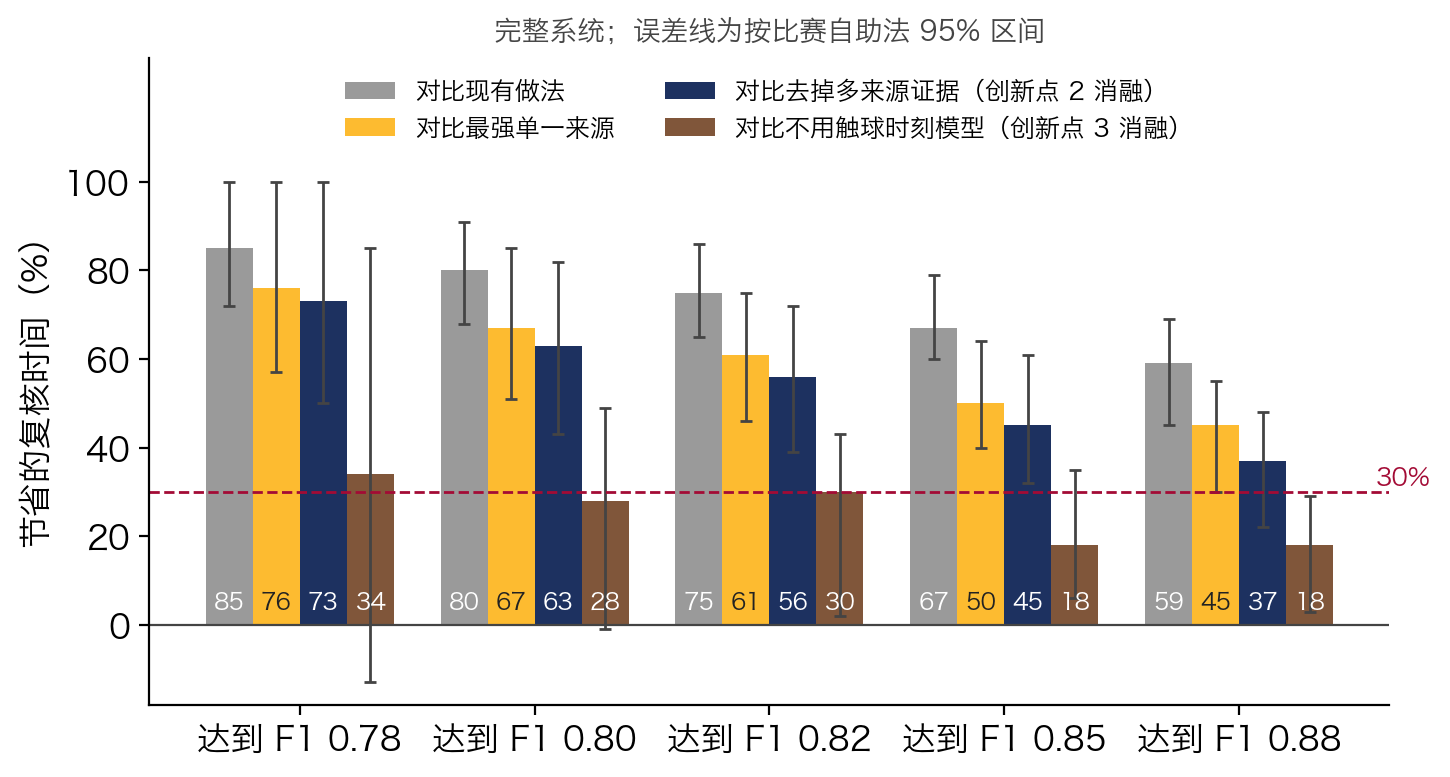
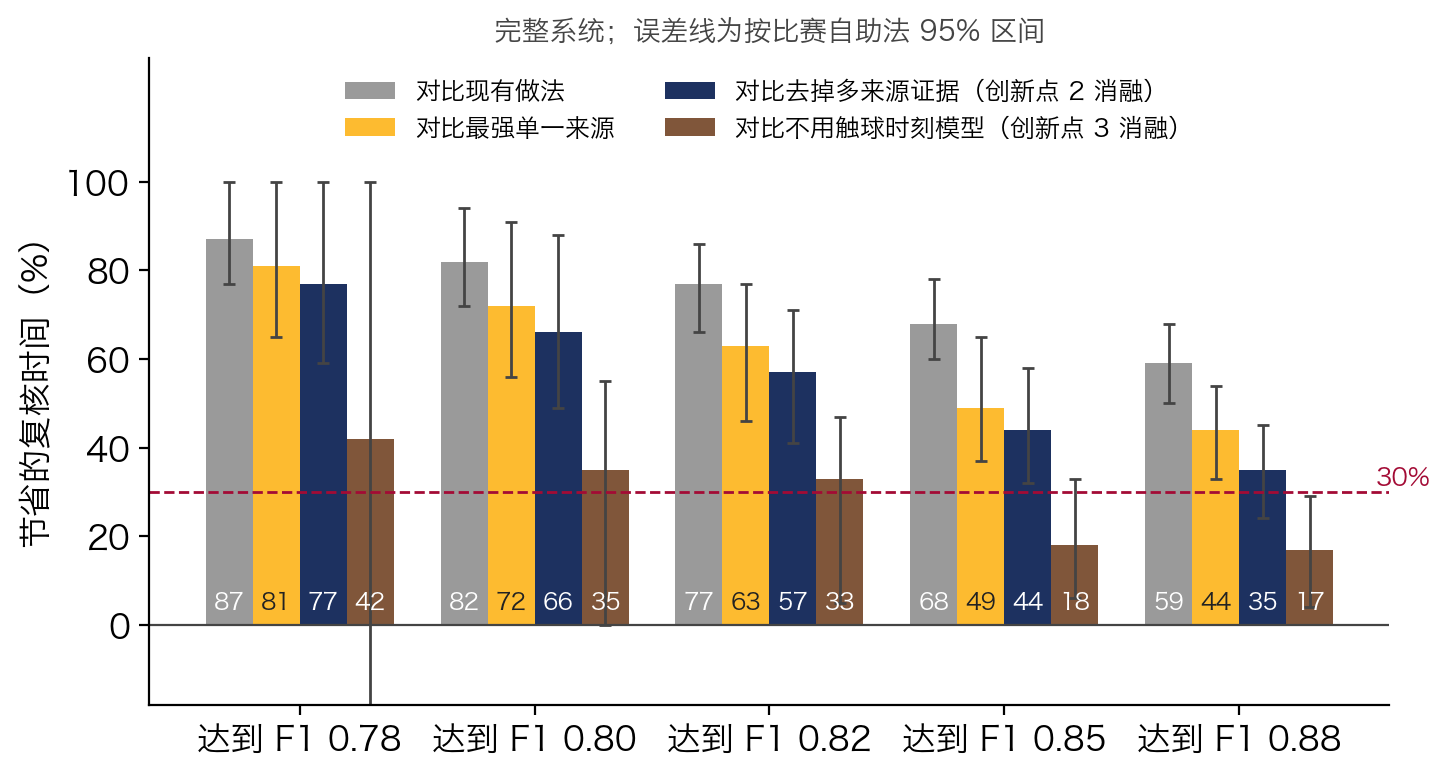
Stroke type: stronger L2 for the stacked type model (joint F1 before review 0.740 -> 0.755); README results

diff --git a/benchmarks/bfmd/review.py b/benchmarks/bfmd/review.py
@@ -659,7 +659,7 @@ if __name__=='__main__':
             model,th,tmodel=fit_both([c['clip_id'] for c in train],data,types,byid)
             E=crossfit_error_models(train,data,types,byid)
             folds.append(run_fold(train,test,model,th,tmodel,0,E));print('fold',m,len(test),'clips',flush=True)
-        res=pool(folds);save(STUDY/f"review_lomo12{'_ablate_'+ablate if ablate else ''}{'' if RETIME_ON else '_noretime'}{'_typehead'+os.environ['REVIEW_TYPEHEAD'] if TYPEHEAD else ''}{'_geom' if os.environ.get('REVIEW_GEOM')=='1' else ''}{'_ceiling' if os.environ.get('REVIEW_CEILING')=='1' else ''}{'_contact' if os.environ.get('REVIEW_CONTACT')=='1' else ''}.json",{'grid_share':GRID,'curves':res,'cost':COST,'clips':len(clips),
+        res=pool(folds);save(STUDY/f"review_lomo12{'_ablate_'+ablate if ablate else ''}{'' if RETIME_ON else '_noretime'}{'_typehead'+os.environ['REVIEW_TYPEHEAD'] if TYPEHEAD else ''}{'_geom' if os.environ.get('REVIEW_GEOM')=='1' else ''}{'_ceiling' if os.environ.get('REVIEW_CEILING')=='1' else ''}{'_contact' if os.environ.get('REVIEW_CONTACT')=='1' else ''}{'_l2'+os.environ['VERIFY_TYPE_L2'] if os.environ.get('VERIFY_TYPE_L2','10')!='10' else ''}.json",{'grid_share':GRID,'curves':res,'cost':COST,'clips':len(clips),
                                                         'per_match':{m:{k:v for k,v in f.items() if not k.startswith('_')} for m,f in zip(sorted({c['youtube_id'] for c in clips}),folds)}})
         print('share         ',' '.join(f'{g:5.2f}' for g in GRID))
         for k,v in res.items():print(f"{k:14s}",' '.join(f'{x:.3f}' for x in v))

diff --git a/benchmarks/bfmd/verify.py b/benchmarks/bfmd/verify.py
@@ -22,6 +22,7 @@ VARIANT=os.environ.get('BFMD_VARIANT','v3');ROUTES=STUDY/f'routes_{VARIANT}'
 PRIMARY='tn3__gru_shared';WIN=3;ADD_SUPPORT=3
 USE_ALT=os.environ.get('VERIFY_ALT','1')=='1'  # author-window BST re-check tool
 HEAD_IN_TYPE=os.environ.get('REVIEW_TYPEHEAD','0')=='1'  # 2: the BFMD head is evidence for the error models only
+TYPE_L2=float(os.environ.get('VERIFY_TYPE_L2','10'))  # L2 of the stacked stroke-type softmax (3 before 2026-11-10; 10 is better in 12-match leave-one-match-out)
 GEOM=os.environ.get('REVIEW_GEOM','0')=='1'  # rally geometry for the stroke type: where and when the previous / next contact happens
 
 def read(p):return json.loads(Path(p).read_text())
@@ -251,7 +252,7 @@ def fit_both(train,data,types,byid):
         seq=[x for x,_ in keep(model,th,data[k][0])];ty={id(x):t for x,t in zip(data[k][0],types[k])};alt=author_window_probs(byid[k],seq) if USE_ALT and seq else None
         for j,x in enumerate(seq):
             if ty.get(id(x)):X.append(type_x(seq,j,alt));Y.append(ty[id(x)])
-    return model,th,Softmax().fit(X,Y)
+    return model,th,Softmax().fit(X,Y,l2=TYPE_L2)
 
 def dev_data():
     clips=[c for c in read(STUDY/'clips.json')['clips'] if in_role(c,'dev') and (ROUTES/c['clip_id']).exists()]

diff --git a/README.md b/README.md
@@ -4,7 +4,7 @@
 
 系统先从比赛转播视频自动记下每一拍（击球时刻 + 球种），再把最可能出错的几拍按“改了收益最大”的顺序交给运动员或分析员核对，并在每一拍旁边给出判断用的证据：找拍器是否一致、球拍是否碰到球、有没有击球声、时刻是否记偏。
 
-在 12 场 BFMD 职业单打上逐场留出评测：要把记录纠正到联合 F1 0.80，所需复核时间比现有的逐拍顺序核对少 **80%**，比只看分类器概率的排序少 **67%**；去掉多来源证据、其余不变，要花 2.7 倍的时间；不用触球时刻模型，要花 1.4 倍。
+在 12 场 BFMD 职业单打上逐场留出评测：要把记录纠正到联合 F1 0.80，所需复核时间比现有的逐拍顺序核对少 **82%**，比只看分类器概率的排序少 **72%**；去掉多来源证据、其余不变，要花 2.9 倍的时间；不用触球时刻模型，要花 1.5 倍。
 
 ![复核工作台](docs/images/review_open.png)
 
@@ -30,8 +30,8 @@
    - 三种球种判断的候选（综合判断、BST 原窗口、BST 作者切片规则）、击球前后的球路、两人轮流击球是否被违反；
    - BFMD 专用球种判断：取 BST 分类头前的 600 维特征，在没见过该场比赛的 BFMD 标注上训练的球种头，看它是否同意当前球种。
 
-   出错模型按错误类型（误报、时刻记偏、球种错、漏拍）分别拟合；训练比赛的输入由没见过该场的核验 Agent 交叉拟合产生。交给复核者之前，出错模型先做第二遍自动核验（删去很可能是误报的拍、补上很可能真实的漏拍，被动过的拍沿用这一遍的概率，复核时可以改回）。完整系统达到 F1 0.78 / 0.80 / 0.82 / 0.85 / 0.88 所需的复核时间，比去掉多来源证据、其余不变的同一方法少 73% / 63% / 56% / 45% / 37%（去掉多来源证据后也没有触球时刻模型；两边都不加触球模型时为 59% / 50% / 38% / 34%，F1 0.78–0.85）。
-3. **触球时刻模型**：漏拍里约三分之二其实是时刻记偏，而用击球声、球拍或回合规则去对齐时刻，都不比检测器更准。`benchmarks/bfmd/contact.py` 用 BFMD 参考触球帧训练一个小型时序卷积网络，逐帧读入两路球轨迹、两名球员手腕与球的相对位置、球拍、击球声和各找拍器信号，判断哪一帧是触球。复核前用它把记偏的拍挪到触球帧、把同一次触球的重复记录合并成一拍；复核时它给出建议时刻。达到 F1 0.78–0.88 的复核时间再省 18–34%（0.82 及以上区间不含 0）。轮流击球和节奏仍作为证据进入核验 Agent，工作台在每次纠正后也仍会重新解码回合，但这种“纠正后传播”单独看没有可测增益（±0.3 个点），不作为技术贡献主张。
+   出错模型按错误类型（误报、时刻记偏、球种错、漏拍）分别拟合；训练比赛的输入由没见过该场的核验 Agent 交叉拟合产生。交给复核者之前，出错模型先做第二遍自动核验（删去很可能是误报的拍、补上很可能真实的漏拍，被动过的拍沿用这一遍的概率，复核时可以改回）。完整系统达到 F1 0.78 / 0.80 / 0.82 / 0.85 / 0.88 所需的复核时间，比去掉多来源证据、其余不变的同一方法少 77% / 66% / 57% / 44% / 35%（去掉多来源证据后也没有触球时刻模型）。
+3. **触球时刻模型**：漏拍里约三分之二其实是时刻记偏，而用击球声、球拍或回合规则去对齐时刻，都不比检测器更准。`benchmarks/bfmd/contact.py` 用 BFMD 参考触球帧训练一个小型时序卷积网络，逐帧读入两路球轨迹、两名球员手腕与球的相对位置、球拍、击球声和各找拍器信号，判断哪一帧是触球。复核前用它把记偏的拍挪到触球帧、把同一次触球的重复记录合并成一拍；复核时它给出建议时刻。达到 F1 0.78–0.88 的复核时间再省 17–42%（0.82 及以上区间不含 0）。轮流击球和节奏仍作为证据进入核验 Agent，工作台在每次纠正后也仍会重新解码回合，但这种“纠正后传播”单独看没有可测增益（±0.3 个点），不作为技术贡献主张。
 
 ## 系统架构
 
@@ -60,14 +60,12 @@
 
 | 联合 F1 / 复核比例 | 0 | 10% | 20% | 30% | 50% |
 |---|---:|---:|---:|---:|---:|
-| 现有做法：无多来源证据，按时间顺序逐拍核对 | 0.684 | 0.710 | 0.743 | 0.762 | 0.800 |
-| 最强单一来源基线：无多来源证据，按分类器概率排序 | 0.684 | 0.723 | 0.761 | 0.798 | 0.862 |
-| 同一方法去掉多来源证据（出错模型 + 第二遍自动核验） | 0.684 | 0.735 | 0.772 | 0.811 | 0.873 |
-| 完整系统：按核验 Agent 置信度排序 | 0.721 | 0.759 | 0.799 | 0.833 | 0.887 |
-| 完整系统：出错模型排序 | 0.721 | 0.770 | 0.812 | 0.844 | 0.896 |
-| 完整系统：+ BFMD 球种头证据 + 第二遍自动核验 | 0.729 | 0.785 | 0.820 | 0.859 | 0.899 |
-| **完整系统：+ 触球时刻模型（挪时刻、合并重复）** | **0.740** | **0.800** | **0.838** | **0.874** | **0.903** |
-| 理想顺序（上限，同一起点） | 0.740 | 0.821 | 0.905 | 0.951 | 0.970 |
+| 现有做法：无多来源证据，按时间顺序逐拍核对 | 0.689 | 0.714 | 0.750 | 0.768 | 0.806 |
+| 最强单一来源基线：无多来源证据，按分类器概率排序 | 0.689 | 0.729 | 0.764 | 0.800 | 0.863 |
+| 同一方法去掉多来源证据（出错模型 + 第二遍自动核验） | 0.694 | 0.740 | 0.778 | 0.819 | 0.876 |
+| 完整系统，不用触球时刻模型（不能挪时刻） | 0.743 | 0.788 | 0.822 | 0.856 | 0.891 |
+| **完整系统（多来源证据 + 出错模型 + 触球时刻模型）** | **0.755** | **0.808** | **0.841** | **0.872** | **0.908** |
+| 理想顺序（上限，同一起点） | 0.755 | 0.836 | 0.915 | 0.961 | 0.970 |
 
 达到同一联合 F1 所需复核时间，完整系统节省：
 
@@ -75,12 +73,12 @@
 
 | 完整系统对比 | 达到 F1 0.78 | 0.80 | 0.82 | 0.85 | 0.88 |
 |---|---:|---:|---:|---:|---:|
-| 现有做法（无多来源证据，逐拍顺序核对） | 85% [72, 100] | 80% [68, 91] | 75% [65, 86] | 67% [60, 79] | 59% [45, 69] |
-| 最强单一来源基线（无多来源证据，按分类器概率） | 76% [57, 100] | 67% [51, 85] | 61% [46, 75] | 50% [40, 64] | 45% [30, 55] |
-| 同一方法去掉多来源证据（创新点 2 消融） | 73% [50, 100] | 63% [43, 82] | 56% [39, 72] | 45% [32, 61] | 37% [22, 48] |
-| 不用触球时刻模型、不能挪时刻（创新点 3 消融） | 34% [−13, 85] | 28% [−1, 49] | 30% [2, 43] | 18% [6, 35] | 18% [3, 29] |
+| 现有做法（无多来源证据，逐拍顺序核对） | 87% [77, 100] | 82% [72, 94] | 77% [66, 86] | 68% [60, 78] | 59% [50, 68] |
+| 最强单一来源基线（无多来源证据，按分类器概率） | 81% [65, 100] | 72% [56, 91] | 63% [46, 77] | 49% [37, 65] | 44% [33, 54] |
+| 同一方法去掉多来源证据（创新点 2 消融） | 77% [59, 100] | 66% [49, 88] | 57% [41, 71] | 44% [32, 58] | 35% [24, 45] |
+| 不用触球时刻模型、不能挪时刻（创新点 3 消融） | 42% [−33, 100] | 35% [0, 55] | 33% [5, 47] | 18% [6, 33] | 17% [4, 29] |
 
-方括号为 95% 区间。节省来自几部分：多来源证据让自动记录本身更准（复核前 0.684 → 0.721），第二遍自动核验再提到 0.729，触球时刻模型挪时刻、合并重复后到 0.740；出错模型让前 30% 的复核更集中在真错误上。没有多来源证据时，第二遍自动核验什么也不改（0.684 → 0.684）。BFMD 球种头证据和第二遍自动核验两项（还没有触球模型时）相对之前的版本，达到 F1 0.78–0.85 省 10–26%。
+方括号为 95% 区间（上限截到 100%）。节省来自几部分：多来源证据和出错模型的第二遍自动核验让自动记录本身更准（复核前 0.689 → 0.743），触球时刻模型挪时刻、合并重复后到 0.755；出错模型让前 30% 的复核更集中在真错误上。以上结果都用 2026-11-10 起的球种模型设置（见“球种识别”）。
 
 没有触球时刻模型时，“挪动时刻”这个操作单独看：在 50% 以内的复核量上只省 1–5% 的时间（区间包含 0），时刻证据用于排序也没有增益；它的作用在复核后期，全部复核完时剩余漏拍从 103 个减到 76 个（联合 F1 0.950 → 0.962）。有了触球时刻模型，挪时刻在复核前就自动完成，见下节。
 
@@ -90,11 +88,22 @@
 
 | 联合 F1 / 复核比例 | 0 | 10% | 20% | 30% | 50% |
 |---|---:|---:|---:|---:|---:|
-| 完整系统（无触球模型，不能挪时刻） | 0.729 | 0.784 | 0.818 | 0.856 | 0.891 |
-| **+ 触球时刻模型 + 合并重复 + 挪时刻** | **0.740** | **0.800** | **0.838** | **0.874** | **0.903** |
-| 上限：重复和记偏全部自动纠正 | 0.760 | 0.815 | 0.849 | 0.879 | 0.911 |
+| 完整系统（无触球模型，不能挪时刻） | 0.743 | 0.788 | 0.822 | 0.856 | 0.891 |
+| **+ 触球时刻模型 + 合并重复 + 挪时刻** | **0.755** | **0.808** | **0.841** | **0.872** | **0.908** |
 
-达到 F1 0.78 / 0.80 / 0.82 / 0.85 / 0.88 的复核时间再省 34% / 28% / 30% / 18% / 18%（0.82 及以上区间不含 0；上面的总表和图已包含这一项）。逐场看，12 场中 7 场复核前 F1 提高、5 场略降（最多 −0.03）：两拍真触球相隔不到 0.3 秒的快速对抽里，模型偶尔会把一拍挪到邻居的触球帧上再被合并。限制“不能越过邻居”反而让总体变差（击球 F1 0.908 → 0.903），所以保留现在的做法。
+达到 F1 0.78 / 0.80 / 0.82 / 0.85 / 0.88 的复核时间再省 42% / 35% / 33% / 18% / 17%（0.82 及以上区间不含 0；上面的总表和图已包含这一项）。之前的上限实验（用参考答案把重复记录和记偏的拍全部自动纠正）在旧的球种设置下复核前 F1 为 0.760，比当时不用触球模型的 0.729 高 0.031，触球模型拿到了其中约三分之一。逐场看，12 场中 7 场复核前 F1 提高、5 场略降（最多 −0.03）：两拍真触球相隔不到 0.3 秒的快速对抽里，模型偶尔会把一拍挪到邻居的触球帧上再被合并。限制“不能越过邻居”反而让总体变差（击球 F1 0.908 → 0.903），所以保留现在的做法。
+
+### 球种识别
+
+找到的击球里，球种判对约 84%（复核前，12 场留出）。各类别（旧设置下，974 个找对的击球）：网前 94%、挑球 91%、杀球 89%、高远 77%、挡网 / 防守 72%、吊球 69%、推球 44%、平抽 42%。最常见的混淆是平抽 ↔ 挡网 / 防守 / 挑球 / 网前、推球 ↔ 网前 / 挑球、吊球 ↔ 杀球。
+
+2026-11-10 把叠加球种模型（BST 两种分类器概率、BST 作者窗口重判、击球后球路、前后拍）的 L2 正则从 3 调到 10（`VERIFY_TYPE_L2`）：在同一批找对的击球上，球种正确率 82.3% → 83.7%；整条流水线复核前联合 F1 0.740 → 0.755（12 场中 6 场提高、3 场略降、3 场不变），多判对 18 拍。BFMD 球种头仍只作为出错证据：放进球种模型在离线数据上到 84.3%，但整条流水线里复核前 F1 只有 0.750，不如只作证据的 0.755。
+
+试过但没有提升的（都是 12 场留出）：
+- 用 BFMD 标注微调 BST-CG-AP 本身（11 场的参考触球 + 记录击球，换成 9 类输出头）：单独用 79.7%，低于现有 82.3%；和现有模型按对数概率加权组合也没有增益。
+- 把 BST 的 600 维特征直接接进球种模型：正则再强也只有 77–80%。
+- 小型神经网络（MLP）代替线性模型、加入击球者姿态（手腕相对头和肩的高度、手臂伸展）或前后拍间隔：83–84.5%，和线性模型持平。
+- 在训练比赛上按准确率调各类别的偏置：82.8%，更差。
 
 ### 自动记录与证据
 
